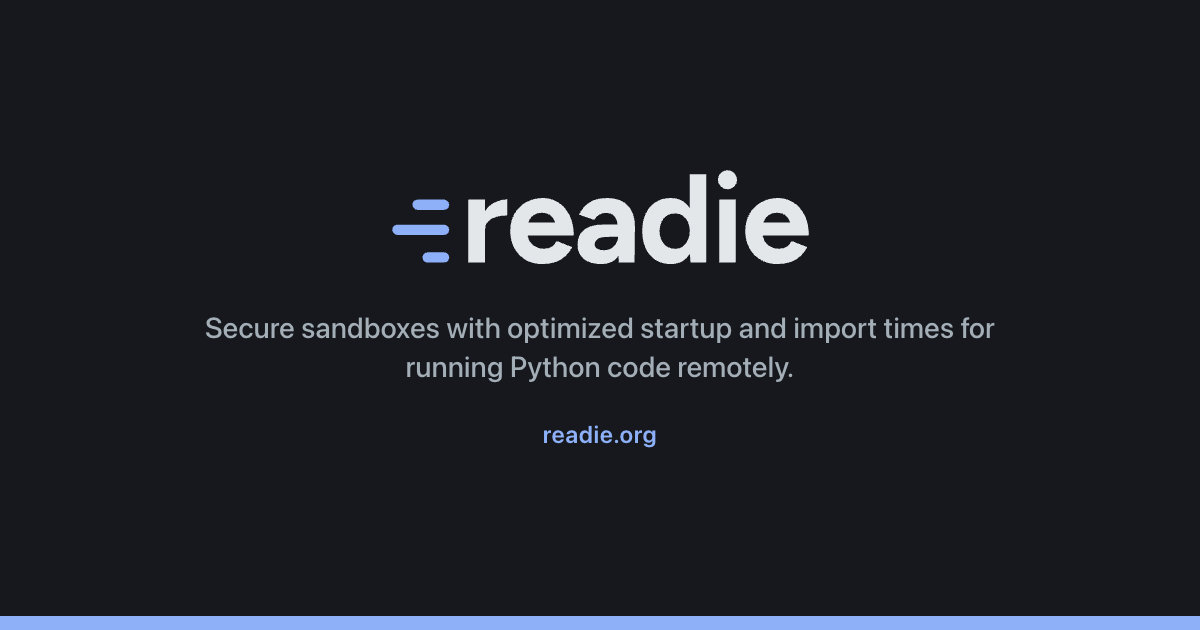
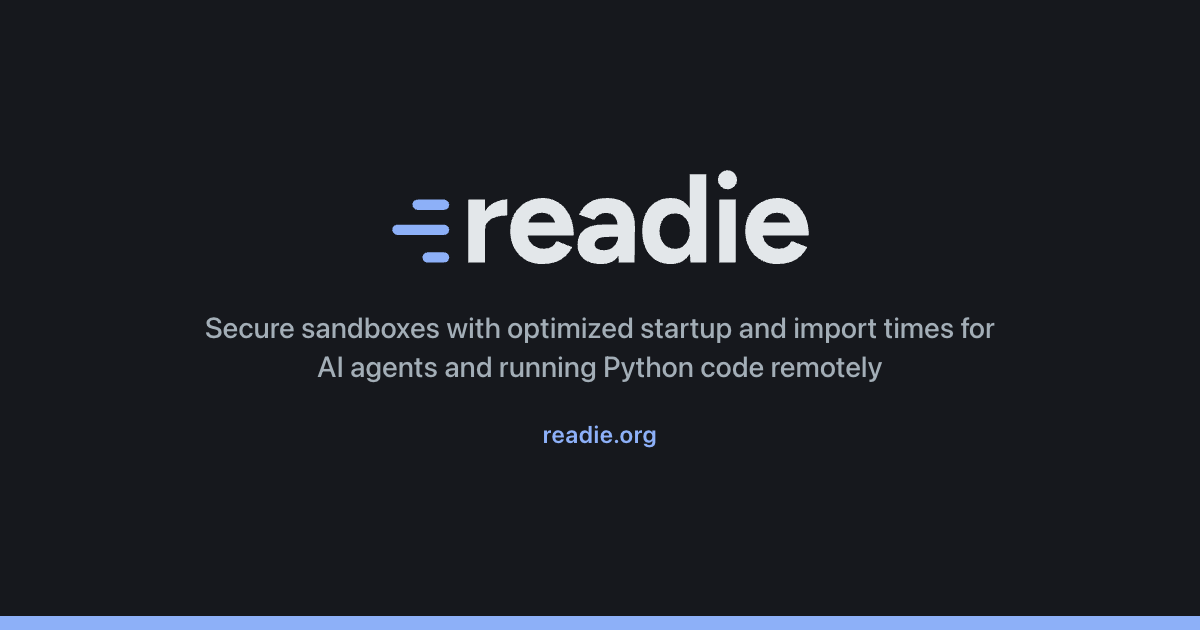
Update tagline to be consistent

Changed region(s): [[0.2467, 0.573, 0.74, 0.6032]]

diff --git a/docs/tools/social-card.html b/docs/tools/social-card.html
@@ -48,7 +48,7 @@
     <path d="M-345.8 -459H-135.8M-505.8 -260H-135.8M-265.8 -41H-135.8" fill="none" class="trail" stroke-width="82" stroke-linecap="round"/>
     <path d="M150 -263Q150 -344 181.5 -397Q213 -450 262.5 -476Q312 -502 366 -502V-374Q320 -374 279.5 -363Q239 -352 214 -327Q189 -302 189 -263ZM57 0V-500H189V0ZM642 12Q568 12 511 -21.5Q454 -55 421.5 -114Q389 -173 389 -250Q389 -327 422.5 -386Q456 -445 514.5 -478.5Q573 -512 649 -512Q714 -512 769.5 -477.5Q825 -443 859 -376.5Q893 -310 893 -215H759Q760 -281 745.5 -320.5Q731 -360 705 -377.5Q679 -395 644 -395Q605 -395 578 -379Q551 -363 537.5 -330.5Q524 -298 524 -246Q524 -201 542 -171Q560 -141 590 -125.5Q620 -110 656 -110Q695 -110 719.5 -127Q744 -144 757 -171L881 -123Q860 -81 826.5 -50.5Q793 -20 747 -4Q701 12 642 12ZM475 -215 476 -318H828V-215ZM1250 0 1245 -101V-253Q1245 -298 1235 -329.5Q1225 -361 1204.5 -377.5Q1184 -394 1150 -394Q1120 -394 1096 -381Q1072 -368 1055 -339L935 -380Q949 -412 976 -442.5Q1003 -473 1046.5 -492.5Q1090 -512 1153 -512Q1228 -512 1278.5 -485Q1329 -458 1354 -405.5Q1379 -353 1378 -277L1375 0ZM1112 12Q1022 12 972.5 -28Q923 -68 923 -141Q923 -221 976.5 -261.5Q1030 -302 1127 -302H1254V-204H1173Q1108 -204 1083 -188.5Q1058 -173 1058 -145Q1058 -123 1078 -110.5Q1098 -98 1134 -98Q1166 -98 1191 -113.5Q1216 -129 1230.5 -153.5Q1245 -178 1245 -204H1280Q1280 -102 1240.5 -45Q1201 12 1112 12ZM1819 0 1812 -93V-700H1944V0ZM1662 12Q1593 12 1542.5 -20Q1492 -52 1464 -111Q1436 -170 1436 -250Q1436 -331 1464 -389.5Q1492 -448 1542.5 -480Q1593 -512 1662 -512Q1725 -512 1768.5 -480Q1812 -448 1835 -389.5Q1858 -331 1858 -250Q1858 -170 1835 -111Q1812 -52 1768.5 -20Q1725 12 1662 12ZM1696 -109Q1730 -109 1756.5 -127Q1783 -145 1798 -177Q1813 -209 1813 -250Q1813 -291 1798 -323Q1783 -355 1756.5 -372.5Q1730 -390 1695 -390Q1659 -390 1632 -372.5Q1605 -355 1589 -323Q1573 -291 1573 -250Q1573 -209 1589 -177Q1605 -145 1632.5 -127Q1660 -109 1696 -109ZM2046 0V-500H2178V0ZM2112 -581Q2082 -581 2059 -603.5Q2036 -626 2036 -657Q2036 -688 2059 -710.5Q2082 -733 2112 -733Q2143 -733 2165.5 -710.5Q2188 -688 2188 -657Q2188 -626 2165.5 -603.5Q2143 -581 2112 -581ZM2506 12Q2432 12 2375 -21.5Q2318 -55 2285.5 -114Q2253 -173 2253 -250Q2253 -327 2286.5 -386Q2320 -445 2378.5 -478.5Q2437 -512 2513 -512Q2578 -512 2633.5 -477.5Q2689 -443 2723 -376.5Q2757 -310 2757 -215H2623Q2624 -281 2609.5 -320.5Q2595 -360 2569 -377.5Q2543 -395 2508 -395Q2469 -395 2442 -379Q2415 -363 2401.5 -330.5Q2388 -298 2388 -246Q2388 -201 2406 -171Q2424 -141 2454 -125.5Q2484 -110 2520 -110Q2559 -110 2583.5 -127Q2608 -144 2621 -171L2745 -123Q2724 -81 2690.5 -50.5Q2657 -20 2611 -4Q2565 12 2506 12ZM2339 -215 2340 -318H2692V-215Z" class="word"/>
   </svg>
-  <p>Secure sandboxes with optimized startup and import times for running Python code remotely.</p>
+  <p>Secure sandboxes with optimized startup and import times for AI agents and running Python code remotely</p>
   <p class="url">readie.org</p>
 </body>
 </html>

diff --git a/docs/docusaurus.config.ts b/docs/docusaurus.config.ts
@@ -10,7 +10,7 @@ const repoUrl = 'https://github.com/readie-project/readie';
 // sets one in its front matter). The landing page shows it under the title, and link previews
 // of the landing page show it as their description.
 const siteDescription =
-  'Secure sandboxes with optimized startup and import times for running Python code remotely.';
+  'Secure sandboxes with optimized startup and import times for AI agents and running Python code remotely.';
 
 const config: Config = {
   title: 'Readie',

diff --git a/assets/README.md b/assets/README.md
@@ -87,8 +87,8 @@ The documentation site uses the same artwork:
 | `docs/static/img/social-card.png` | `social-card-dark.png` |
 
 The social cards are rendered from `docs/tools/social-card.html`, which lists the commands
-that render both cards. They set the tagline of the documentation site, which is shorter than
-the tagline of the banners.
+that render both cards. The tagline is the same on the banners, the social cards, and the
+documentation site, where it is the `tagline` in `docs/docusaurus.config.ts`.
 
 When the artwork changes, update both copies of each SVG file and render the PNG
 files again from the SVG files.
